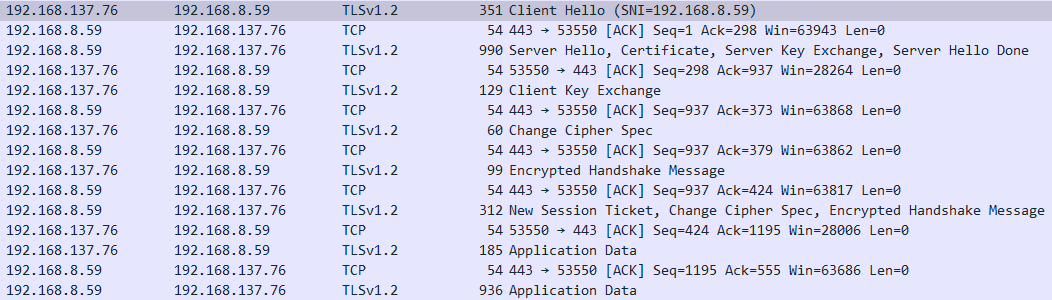
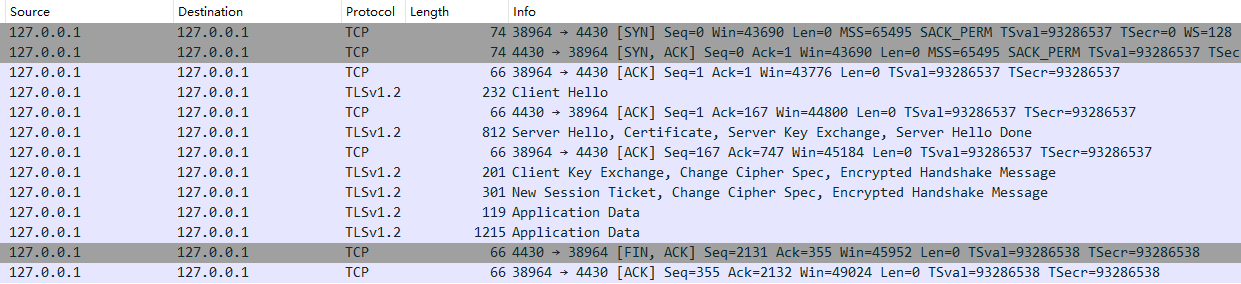
add ssl handshake pcapng

diff --git a/MbedTLS/handshake.md b/MbedTLS/handshake.md
@@ -6,7 +6,7 @@
 
 ![Alt text](handshake.assets/image.png)
 
-对应 wireshark 抓包如下：
+对应 [wireshark 抓包](handshake.assets/ssl_handshake.pcapng)如下：
 ![Alt text](handshake.assets/image-2.png)
 
 - Client Hello：客户端向服务端打招呼；携带支持的协议、支持的安全套件供服务端选择；
